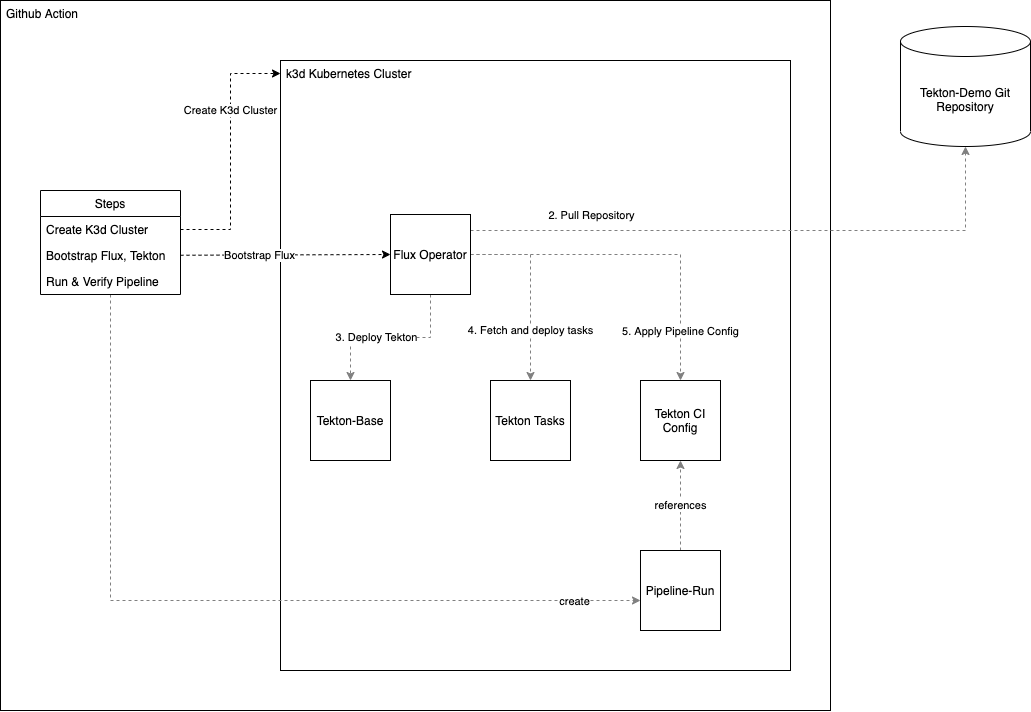
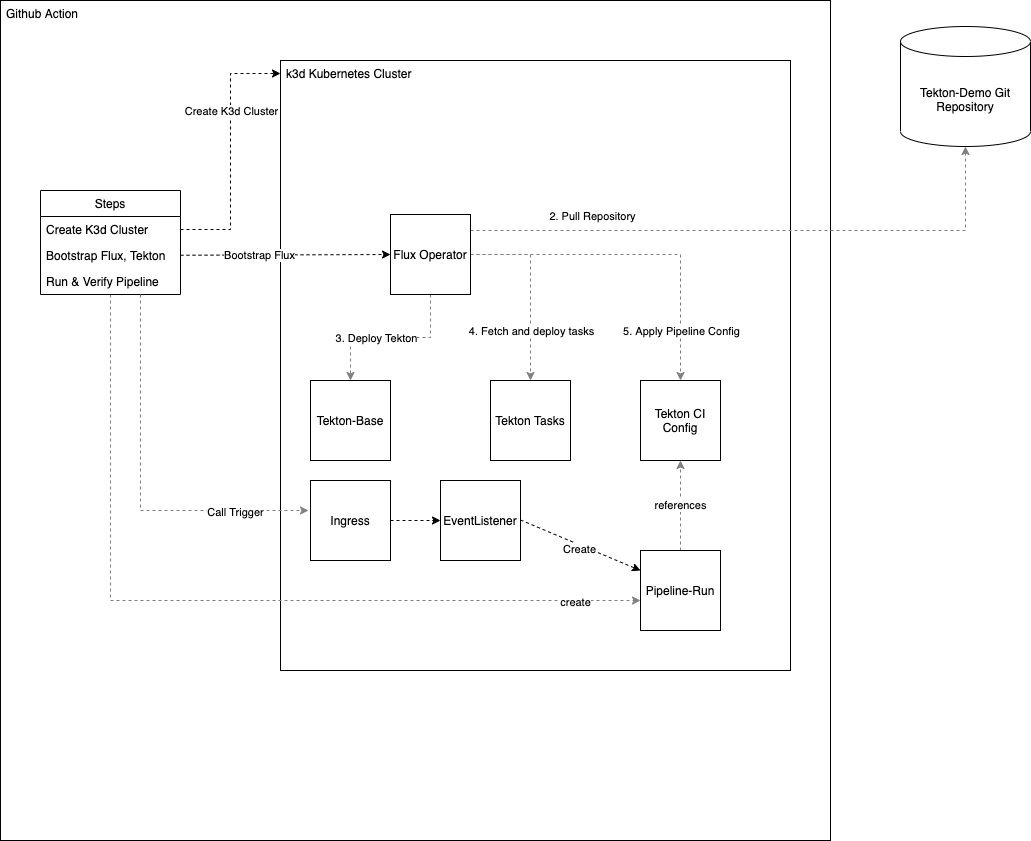
Readme adjusted

diff --git a/README.md b/README.md
@@ -13,29 +13,22 @@ The up-to-date bootstrap process is documented in the GitHub Actions workflow yo
 
 On a high level you need to provide a Github token with the following scopes: `repo_status`, `public_repo`. You can find the management dialog [here](https://github.com/settings/tokens). This token is used by the flux operator to connect to the git repository and roll-out the desired cluster state based on this repository.
 
-#### 0. Create K3d registry (if you don't already have one):
+#### 1. Create K3d cluster that exposes a http ingress
 
 ```sh
-k3d registry create registry.localhost --port 5000
-```
-
-
-#### 2. Create K3d cluster that uses the registry, incl. Tekton services and config:
-
-```sh
-k3d cluster create --registry-use k3d-registry.localhost:5000
+k3d cluster create -p "8081:80@loadbalancer" --agents 2
 ```
 
 This might take some time.
 
-#### 3. Switch kubectl to K3d context & inspect cluster-info
+#### 2. Switch kubectl to K3d context & inspect cluster-info
 
 ```shell
 kubectl config use-context k3d-k3s-default
 kubectl cluster-info
 ```
 
-#### 4. Install Flux components with flux bootstrap:
+#### 3. Install Flux components with flux bootstrap:
 
  ```sh
    GITHUB_TOKEN=<token> GITHUB_USER=<username> flux bootstrap github \
@@ -47,13 +40,13 @@ kubectl cluster-info
    --path=clusters/local
  ```
    
-#### 5. Check the progress of the deployment
+#### 4. Check the progress of the deployment
 
 ```shell
 kubectl get Kustomization -n flux-system -w
 ```
 
-#### 6.(optional) Connect to the Tekton Dashboard
+#### 5.(optional) Connect to the Tekton Dashboard
 
 The Dashboard is deployed and accessible via the `tekton-dashboard` service on port 9097.
 
